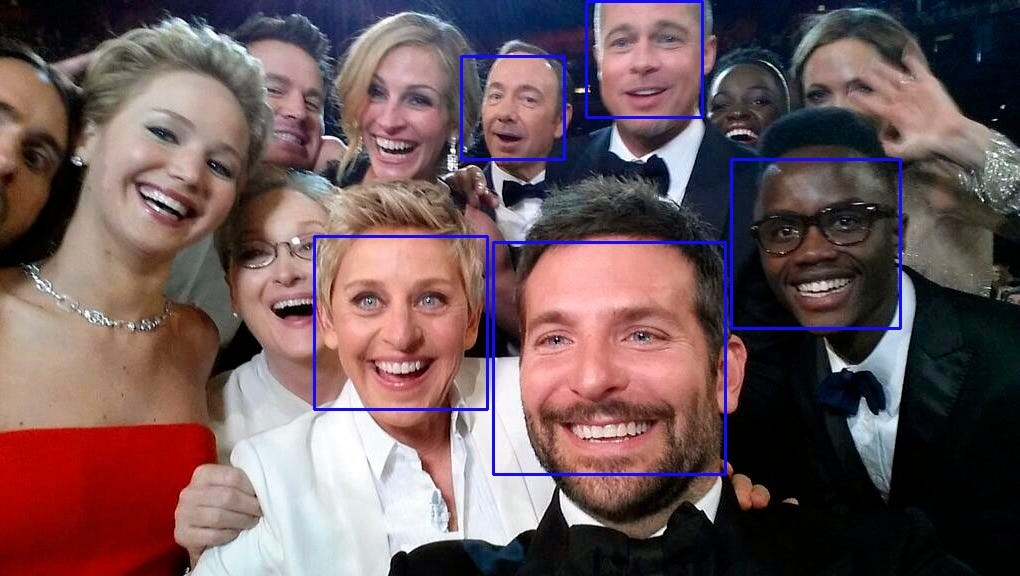
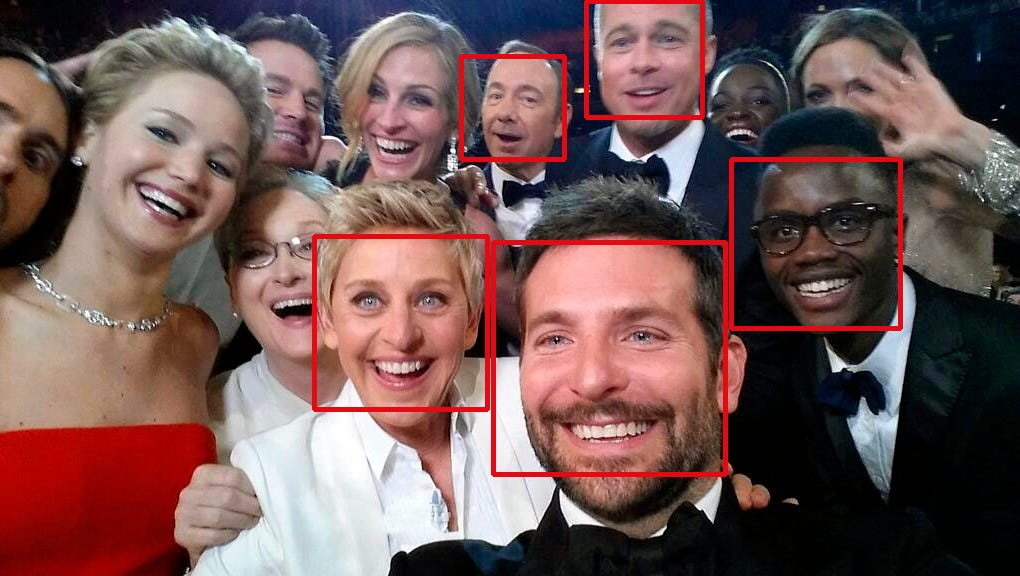
changed color and thickness of face selection

Changed region(s): [[0.3039, 0.25, 0.9118, 0.8438], [0.4255, 0.0, 0.699, 0.2812]]

diff --git a/photo/photo.py b/photo/photo.py
@@ -13,7 +13,7 @@ def menu():
     faces = detect_faces(image_grayed)
 
     for (x, y, w, h) in faces:
-        cv2.rectangle(image, (x, y), (x+w, y+h), (299, 9, 20), 2)
+        cv2.rectangle(image, (x, y), (x+w, y+h), (20, 9, 229), 4)
 
     status = cv2.imwrite(
         f"{image_directory}{image_name}_faces_detected.jpeg", image)
